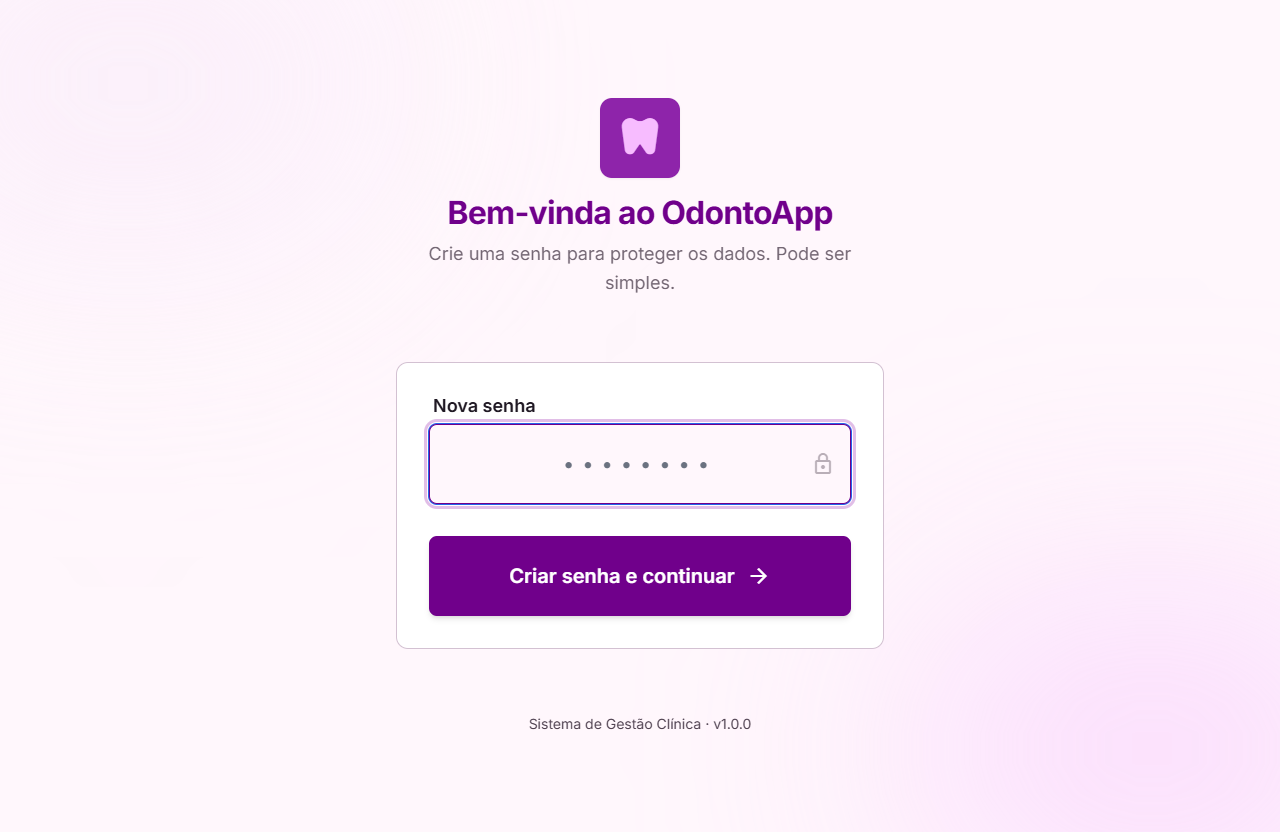
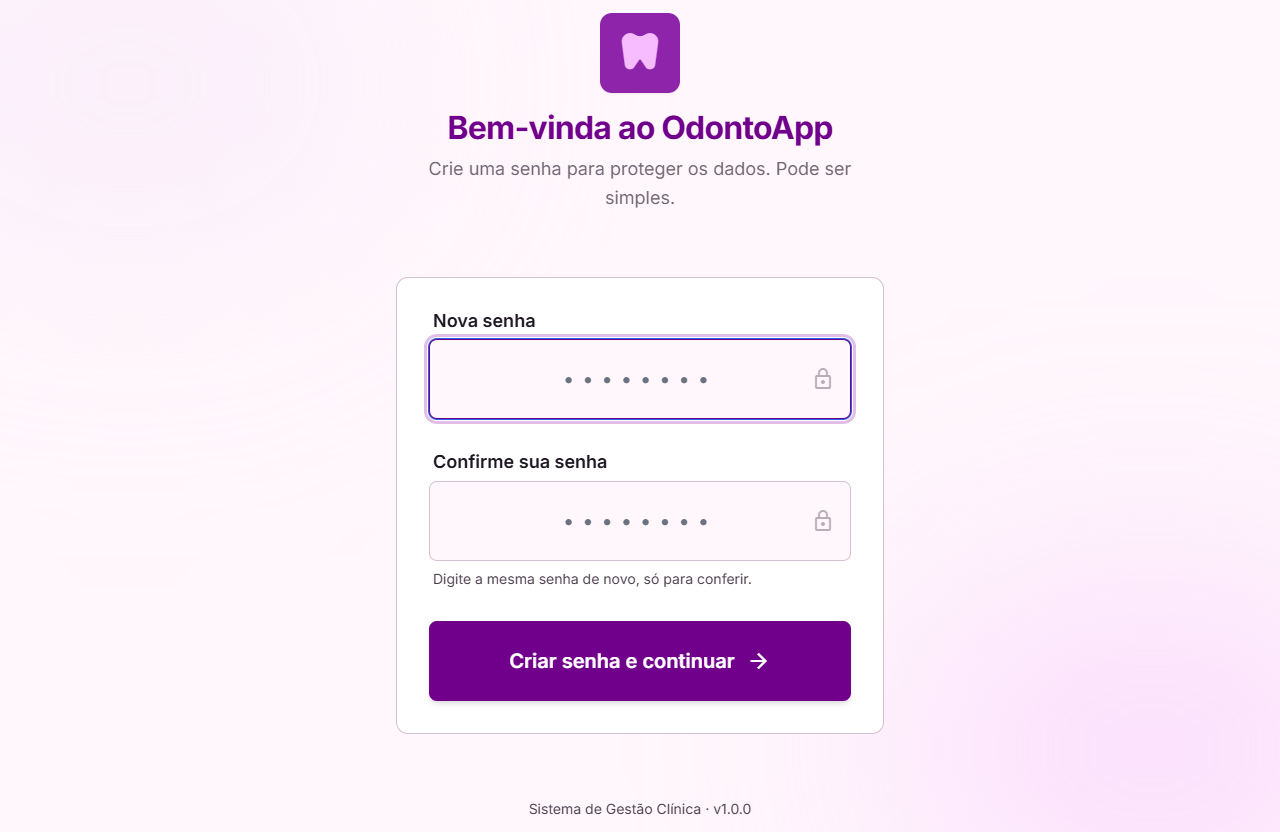
feat: confirmação de senha no primeiro acesso
Adiciona o campo 'Confirme sua senha' na criação da senha, com validação de
igualdade antes de prosseguir — evita erro de digitação que travaria o acesso
depois. Continua pedindo apenas uma senha simples. Screenshots atualizados.

Changed region(s): [[0.3125, 0.375, 0.6875, 0.875], [0.3438, 0.0, 0.6562, 0.3438], [0.4062, 0.9688, 0.5625, 1.0]]

diff --git a/src/pages/LoginPage.tsx b/src/pages/LoginPage.tsx
@@ -19,6 +19,7 @@ export function LoginPage() {
   const primeiraVez = !senhaDefinida;
   const [mode, setMode] = useState<Mode>(primeiraVez ? 'criar' : 'entrar');
   const [senha, setSenha] = useState('');
+  const [confirmar, setConfirmar] = useState('');
   const [chave, setChave] = useState('');
   const [erro, setErro] = useState('');
 
@@ -29,6 +30,10 @@ export function LoginPage() {
     if (mode === 'criar') {
       if (!senha.trim()) {
         setErro('Escolha uma senha (pode ser simples).');
+        return;
+      }
+      if (senha !== confirmar) {
+        setErro('As senhas não são iguais. Confira e digite de novo.');
         return;
       }
       definirSenha(senha.trim());
@@ -114,6 +119,27 @@ export function LoginPage() {
                 </div>
               </div>
             </div>
+
+            {mode === 'criar' && (
+              <div className="flex flex-col gap-stack-xs">
+                <label className="font-label-lg text-label-lg text-on-surface ml-1">Confirme sua senha</label>
+                <div className="relative">
+                  <input
+                    className="w-full h-20 px-6 font-body-lg text-body-lg bg-surface border-[1.5px] border-outline-variant rounded-lg text-center tracking-[0.4em]"
+                    type="password"
+                    placeholder="••••••••"
+                    value={confirmar}
+                    onChange={(e) => setConfirmar(e.target.value)}
+                  />
+                  <div className="absolute inset-y-0 right-4 flex items-center pointer-events-none text-on-surface-variant opacity-40">
+                    <Icon name="lock" />
+                  </div>
+                </div>
+                <span className="text-sm text-on-surface-variant ml-1">
+                  Digite a mesma senha de novo, só para conferir.
+                </span>
+              </div>
+            )}
 
             {erro && (
               <div className="flex items-center gap-2 text-error font-label-lg">
